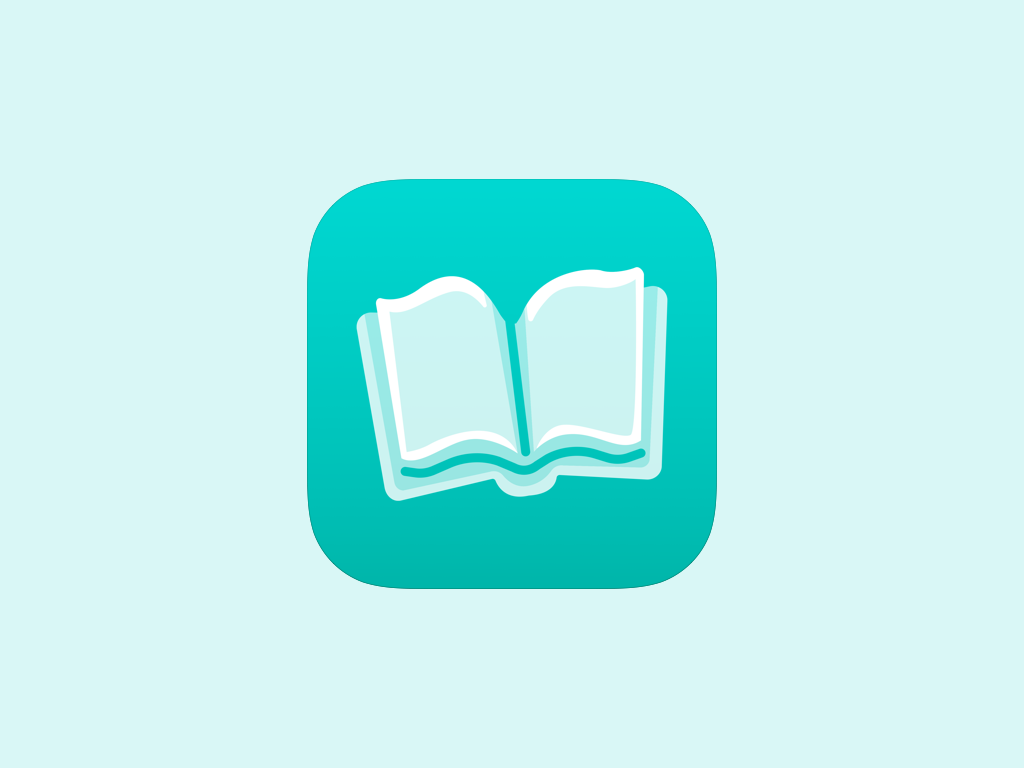
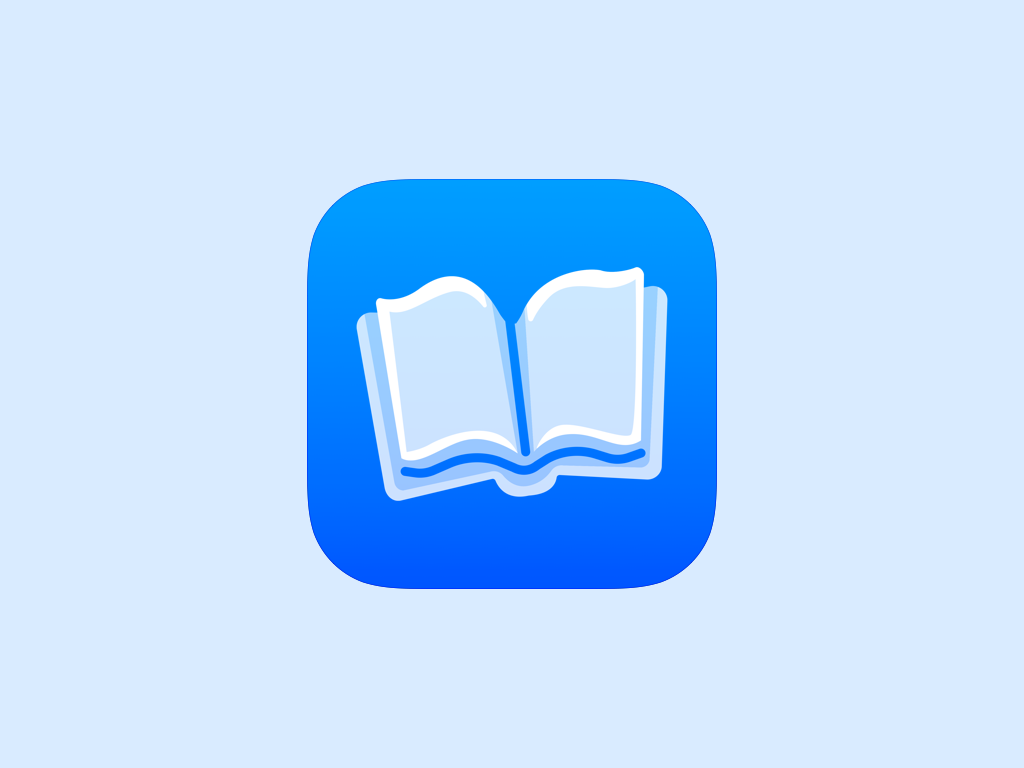
[ipad] Prototyping 3d buttons

Changed region(s): [[0.2812, 0.2188, 0.7188, 0.7812]]

diff --git a/Shared/TestFile.swift b/Shared/TestFile.swift
@@ -1,0 +1,212 @@
+import SwiftUI
+
+struct TDButton: View {
+    static var current: Binding<Bool>? = nil 
+    @State var isCurrent: Bool = false
+    
+    var body: some View {
+        Button("T") {
+            if let prevIsCurrent = Self.current {
+                prevIsCurrent.wrappedValue = false
+            }
+            Self.current = $isCurrent
+            isCurrent = true
+        }
+        .buttonStyle(TDButtonStyle(isCurrent: isCurrent))
+    }
+}
+
+struct TDButtonStyle: ButtonStyle {
+    @Environment(\.gridConfig)
+    var config: GridConfig
+    
+    let isCurrent: Bool
+    
+    var shadowHeight: CGFloat {
+        //        config.idealTileSize.height / 17.50
+        6.0
+    }
+    
+    var cornerRadius: CGFloat {
+        12.5
+    }
+    
+    var color: Color {
+        isCurrent ? .blue : .red
+    }
+    
+    func makeBody(configuration: Configuration) -> some View {
+        ZStack(alignment: (configuration.isPressed ? .bottom : .top)) {
+            VStack {
+                Spacer()
+                RoundedRectangle(cornerRadius: cornerRadius, style: .continuous)
+                    .fill(color.darker)
+                    .frame(
+                        idealWidth: config.idealTileSize.width, 
+                        idealHeight: config.idealTileSize.height - shadowHeight, 
+                        maxHeight: 50 - shadowHeight)
+            }
+            
+            RoundedRectangle(cornerRadius: cornerRadius, style: .continuous)
+                .fill(color.lighter)
+                .frame(
+                    idealWidth: config.idealTileSize.width, 
+                    idealHeight: config.idealTileSize.height - shadowHeight, 
+                    maxHeight: 50 - shadowHeight)
+                .aspectRatio(1, contentMode: .fit)
+            
+            VStack {
+                Spacer()
+                HStack {
+                    Spacer()
+                    configuration.label
+                        .padding(.top, configuration.isPressed ? shadowHeight : 0 )
+                        .foregroundColor(.white)
+                        .padding(2)
+                    Spacer()
+                }
+                Spacer()
+            }
+        }
+        //        configuration.label
+        //            .padding()
+        //            .background(.quaternary, in: Capsule())
+        //            .opacity(configuration.isPressed ? 0.5 : 1)
+    }
+}
+
+struct TDView: View {
+    
+    @Environment(\.gridConfig)
+    var config: GridConfig 
+    
+    var shadowHeight: CGFloat {
+        config.idealTileSize.height / 17.50
+    }
+    
+    var cornerRadius: CGFloat {
+        12.5
+    }
+    
+    var body: some View {
+        ZStack(alignment: .top) {
+            TDButton()
+            .frame(
+                minWidth: 50, idealWidth: config.idealTileSize.width, 
+                minHeight: 50, idealHeight: config.idealTileSize.height)
+            .aspectRatio(1, contentMode: .fit)
+        }
+    }
+}
+
+extension CGSize {
+    func div(_ by: CGFloat) -> CGSize {
+        return CGSize(width: self.width / by, height: self.height / by)
+    }
+    
+    func dec(_ by: CGFloat) -> CGSize {
+        return CGSize(width: self.width - by, height: self.height - by)
+    }
+    
+    func minsq() -> CGSize {
+        let minside = min(self.width, self.height)
+        return CGSize(width: minside, height: minside)
+    }
+}
+
+struct Row: View {
+    @Environment(\.gridConfig)
+    var config: GridConfig 
+    
+    var body: some View {
+        HStack(spacing: config.spacing) {
+            ForEach(0..<config.cols, id: \.self) { _ in
+                TDView()
+            }
+        }
+        .debugBorder(.purple)
+    }
+}
+
+struct Rows: View {
+    @Environment(\.gridConfig)
+    var config: GridConfig 
+    
+    var body: some View {
+        VStack(spacing: config.spacing) {
+            ForEach(0..<config.rows, id: \.self) { _ in
+                Row()
+            }
+        }
+        .debugBorder(.green)
+    }
+}
+
+extension View {
+    func debugBorder(_ color: Color) -> some View {
+        self.modifier(DebugBorderModifier(color: color))
+    }
+}
+
+struct DebugBorderModifier: ViewModifier {
+    @Environment(\.debug)
+    var debug: Bool
+    
+    let color: Color 
+    
+    func body(content: Content) -> some View {
+        content
+            .border(debug ? color : .clear)
+    }
+}
+
+struct GridConfig {
+    let spacing: CGFloat
+    let idealTileSize: CGSize
+    let rows: Int 
+    let cols: Int
+}
+
+private struct DebugKey: EnvironmentKey {
+    static let defaultValue = false
+}
+
+extension EnvironmentValues {
+    var debug: Bool {
+        get { self[DebugKey.self] }
+        set { self[DebugKey.self] = newValue }
+    }
+}
+
+private struct GridConfigKey: EnvironmentKey {
+    static let defaultValue = GridConfig(spacing: 0, idealTileSize: .zero, rows: 0, cols: 0)
+}
+
+extension EnvironmentValues {
+    var gridConfig: GridConfig {
+        get { self[GridConfigKey.self] }
+        set { self[GridConfigKey.self] = newValue }
+    }
+}
+
+struct TDView_Previews: PreviewProvider {
+    static let cols = 5
+    static let rows = 2
+    static let spacing = CGFloat(0.5) 
+    
+    static var previews: some View {
+        GeometryReader { pr in 
+            ScrollView([.horizontal, .vertical], showsIndicators: true) {
+                Rows()
+                Text(verbatim: "Ideal: \(pr.size.div(5).dec(2).minsq())")
+            }
+            .environment(\.gridConfig, GridConfig(
+                spacing: spacing, 
+                idealTileSize: pr.size.div(CGFloat(cols)).dec(spacing).minsq(), 
+                rows: rows, 
+                cols: cols))
+            .debugBorder(.purple)
+        }
+        .environment(\.debug, false)
+    }
+}
